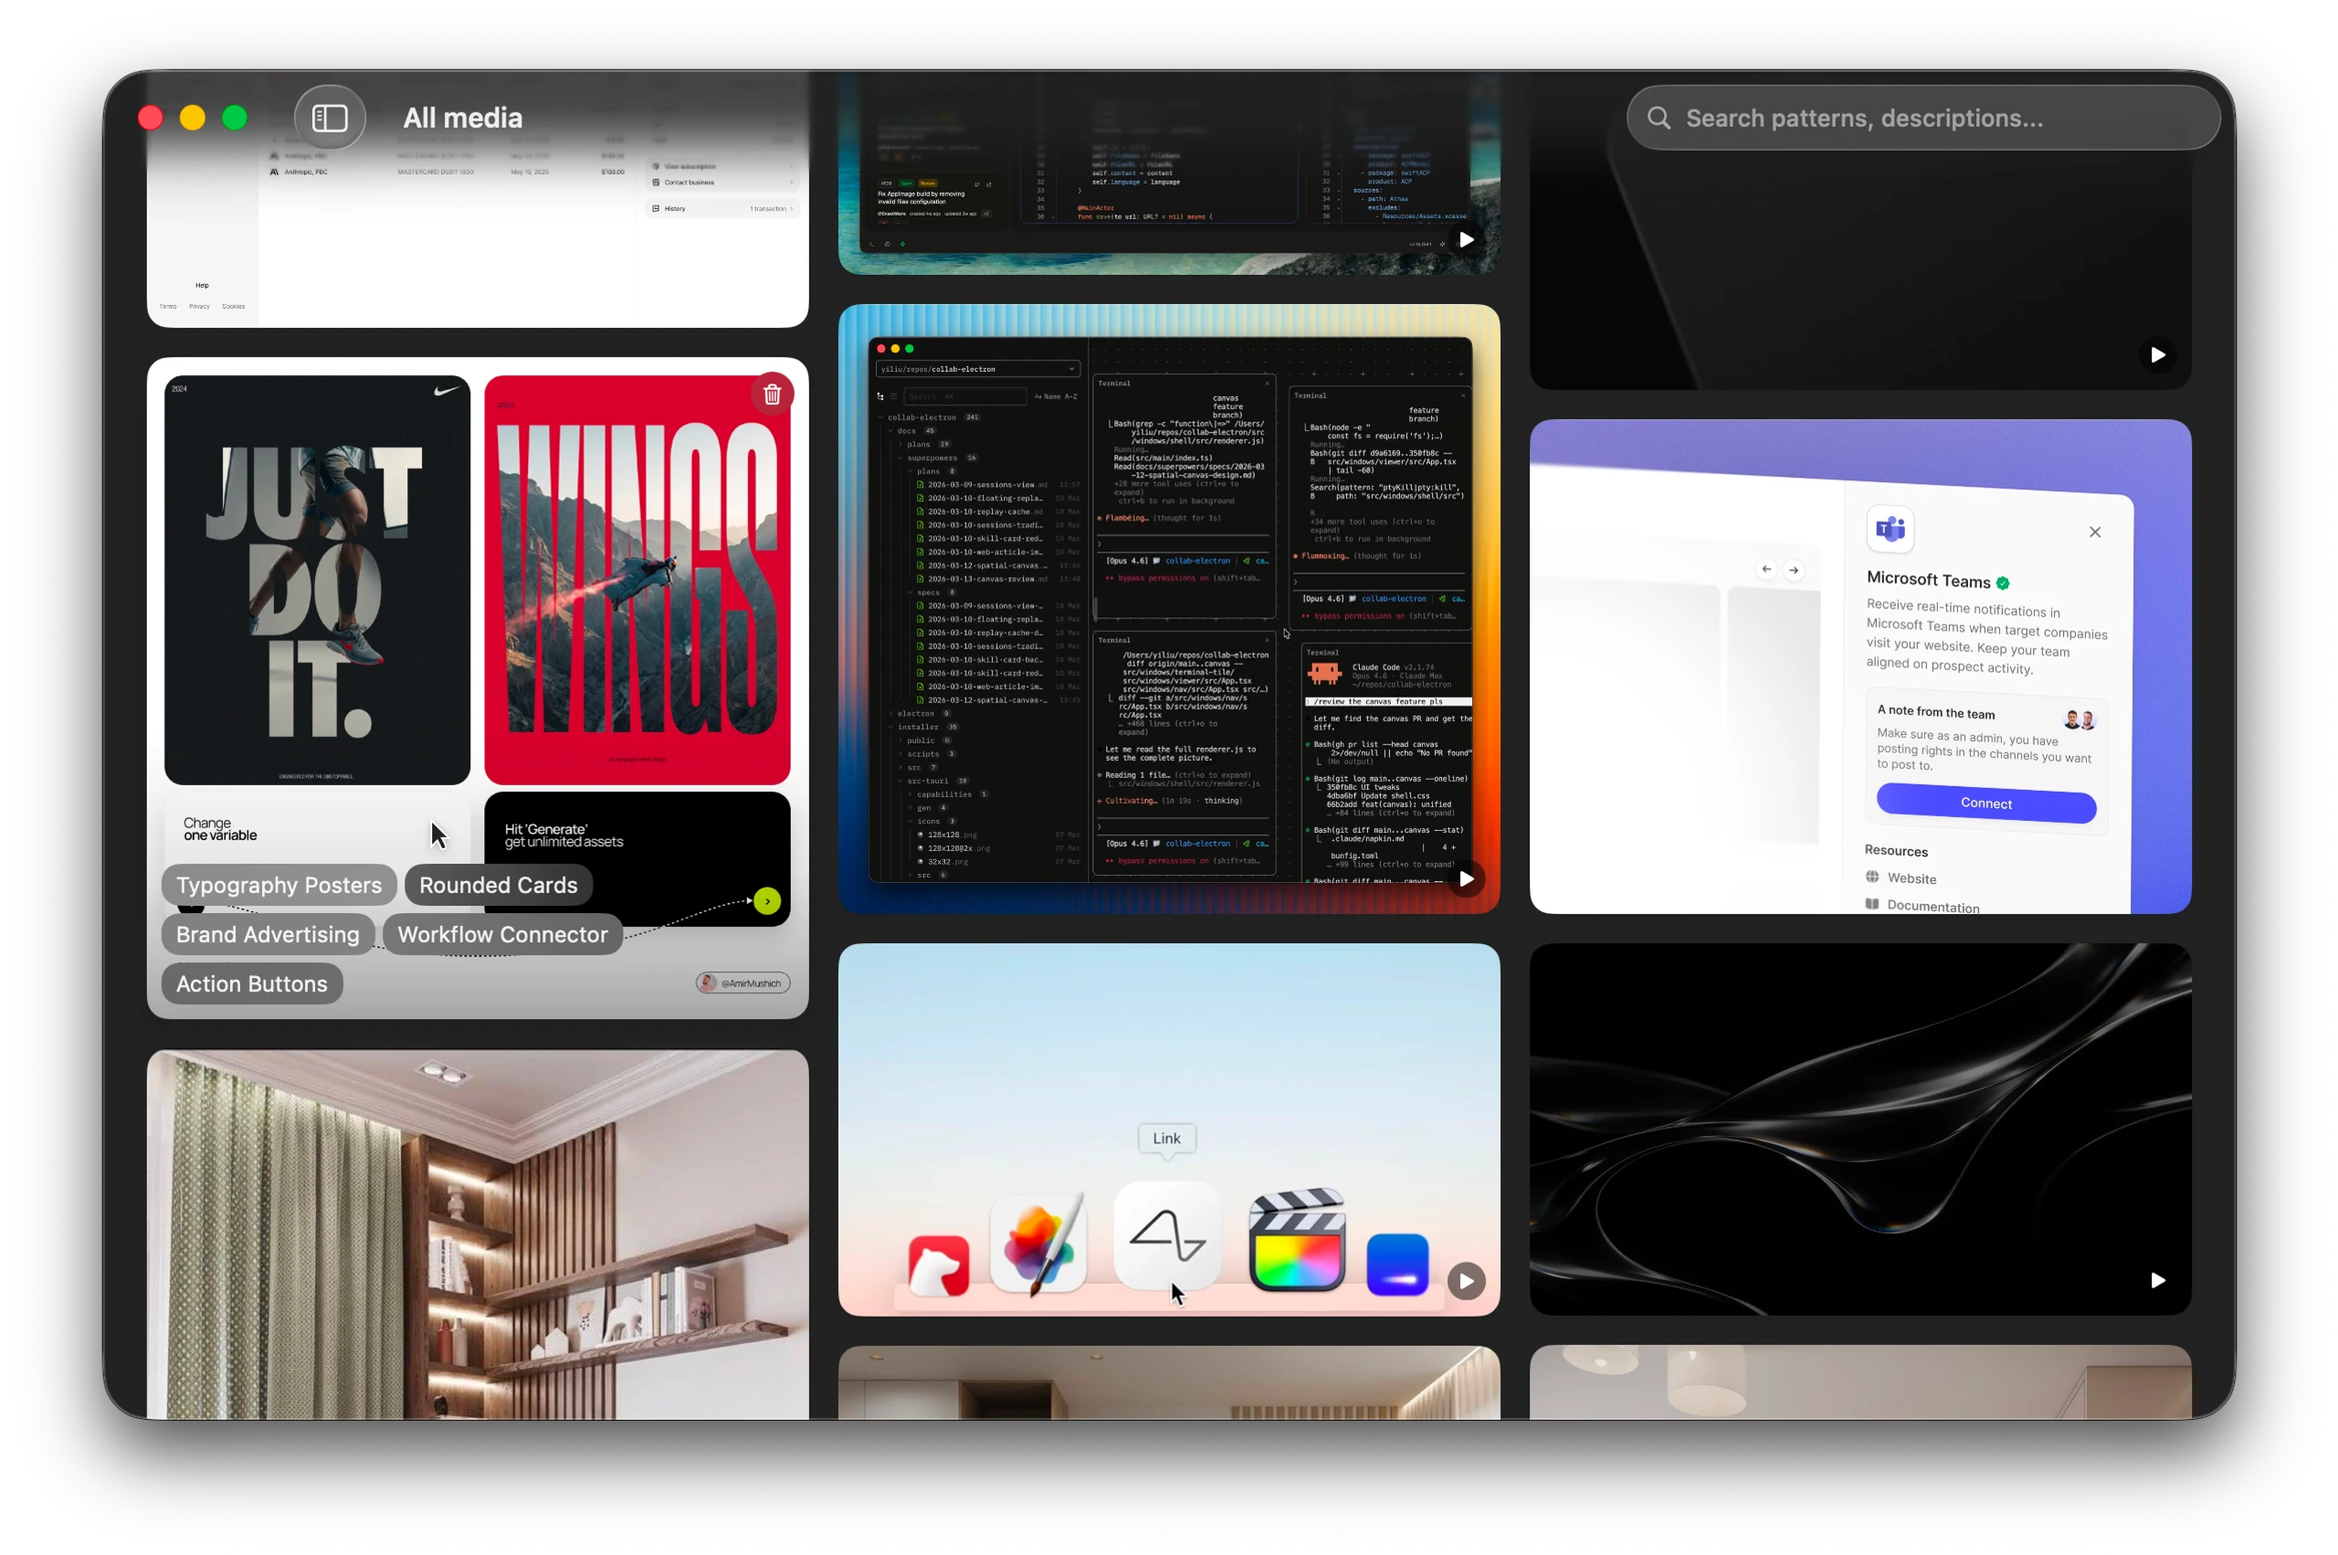
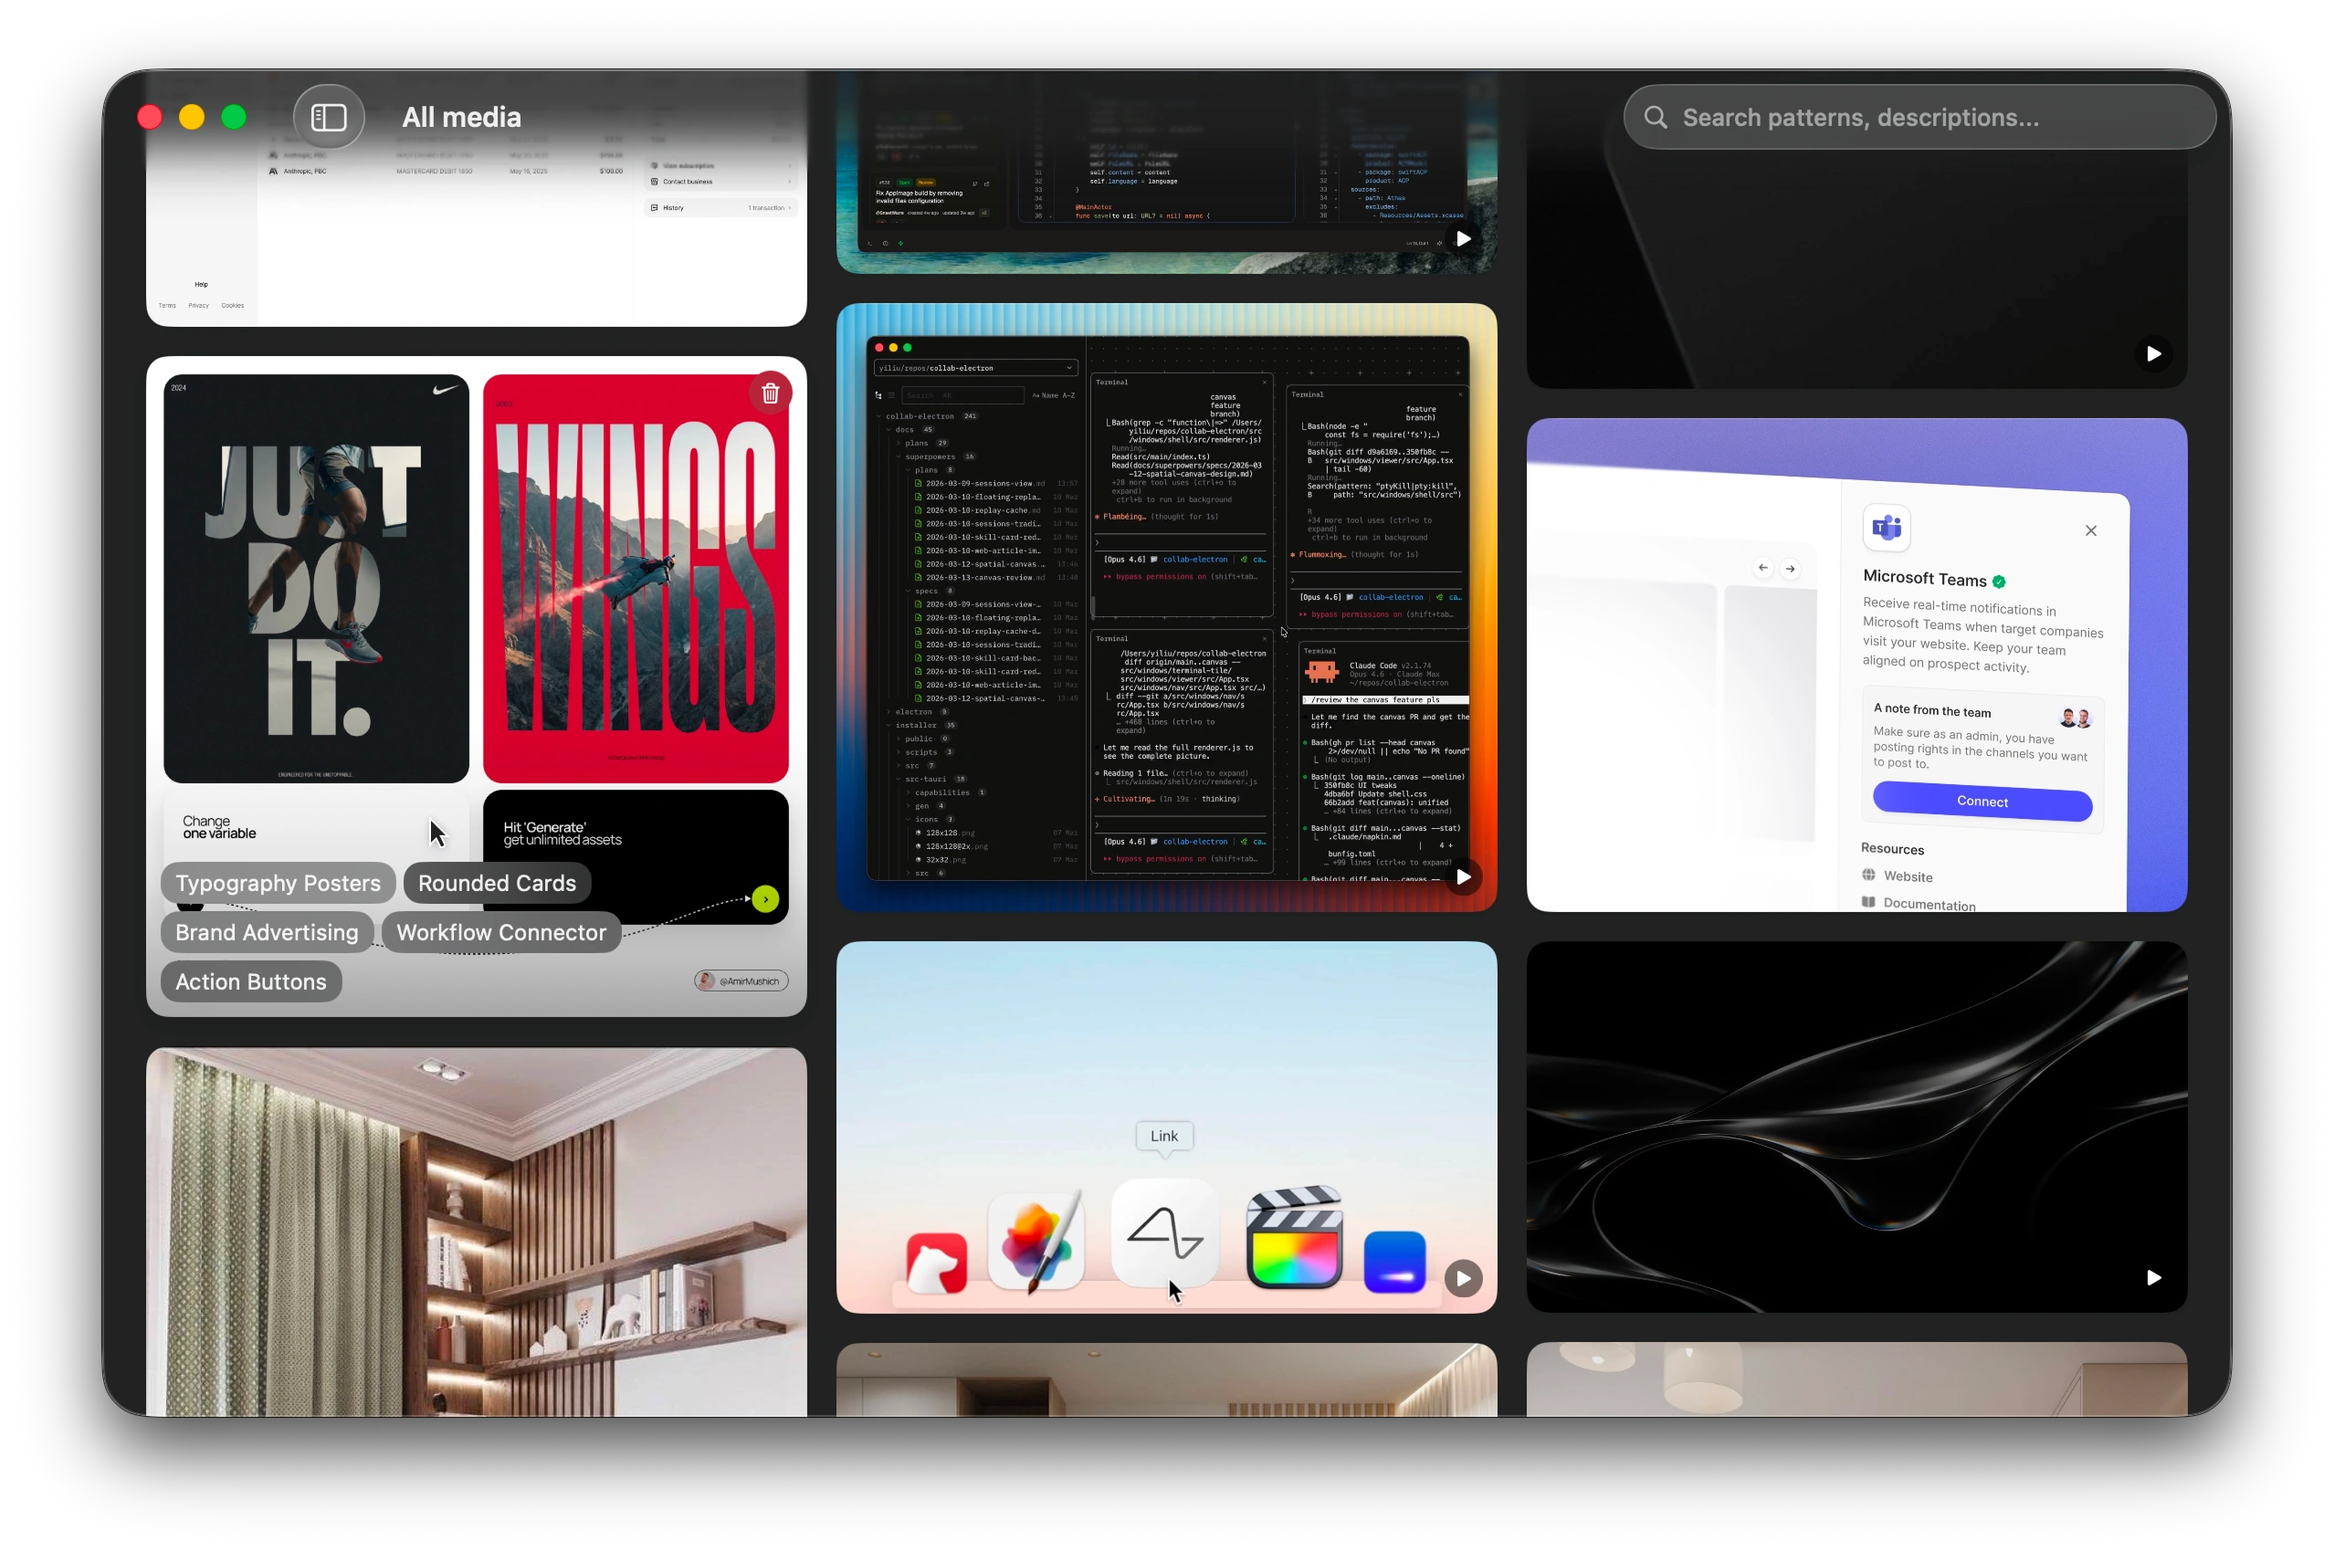
Bump device screenshot quality to 95 and use original dimensions

diff --git a/site/src/app/page.tsx b/site/src/app/page.tsx
@@ -116,8 +116,8 @@ export default function Home() {
                   <Image
                     src="/hero/mac.webp"
                     alt="Snapwell on Mac — a grid of collected images with AI-generated tags and search"
-                    width={2560}
-                    height={1703}
+                    width={2556}
+                    height={1700}
                     className="w-full drop-shadow-[0_32px_64px_rgba(0,0,0,0.4)]"
                     priority
                   />
